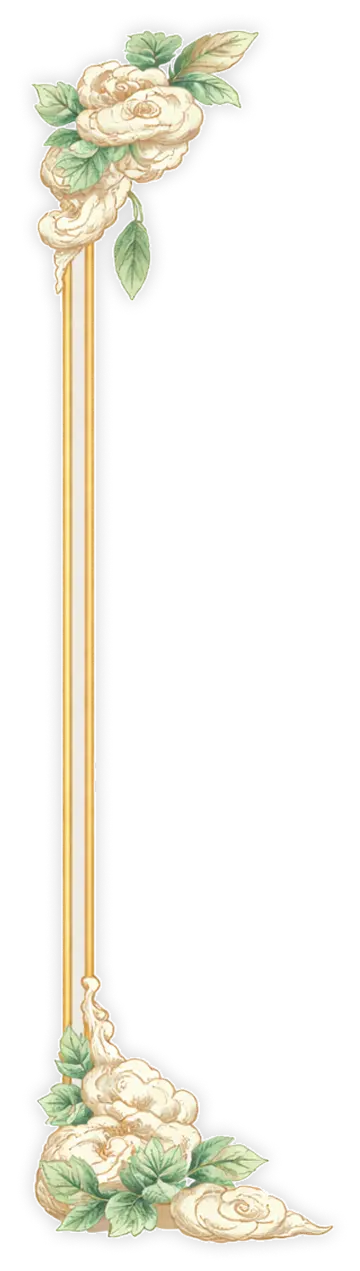
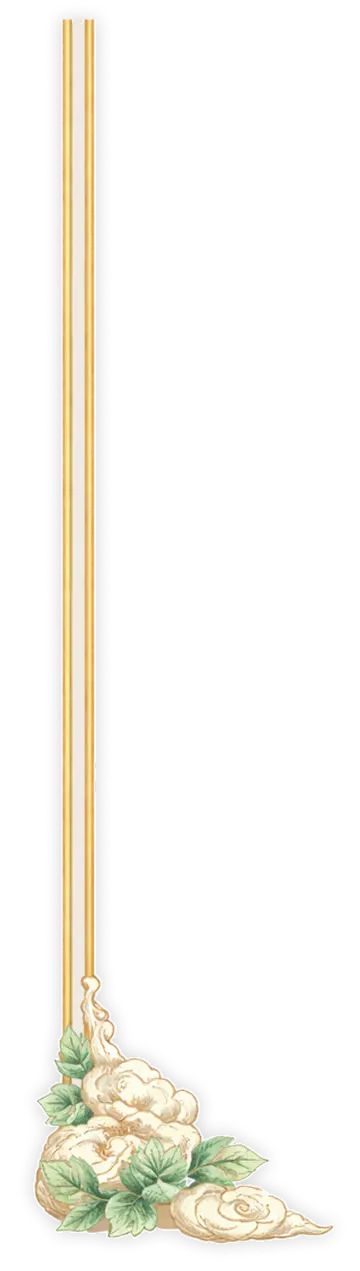
Added melbird and cammy

Changed region(s): [[0.0917, 0.0, 0.7028, 0.2455]]

diff --git a/src/sections/Section1.jsx b/src/sections/Section1.jsx
@@ -9,14 +9,29 @@ import TasselJade from "../assets/section-1/tassel-jade.webp";
 import TasselTinghun from "../assets/section-1/tassel-tinghun.webp";
 
 import BackgroundBuildings from "../assets/section-1/background-buildings.webp";
+import Cammy from "../assets/section-1/cammy.webp";
+import Melbird from "../assets/section-1/melbird.webp";
+import RockPlatform from "../assets/section-1/rock-platform.webp";
+
 
 export function Section1() {
   return (
-    <section className="relative w-full min-h-228 overflow-visible section-1-bg">
-      {/* --- FRAME --- */}
-      <img src={FrameT} className="absolute" style={{ left: '13%', top: '0%',  width: '100%' }} />
-      <img src={FrameL} className="absolute" style={{ left: '-10%', top: '3%',  width: '50%' }} />
-      <img src={FrameR} className="absolute" style={{ right: '-12.1%', top: '3%',  width: '50%' }} />
+    <section className="relative w-full min-h-208 overflow-visible section-1-bg">
+      {/* --- MELBIRD & CAMMY --- */}
+      <div className="w-full h-100 absolute bottom-0">
+        <div className="relative size-full">
+          <img src={BackgroundBuildings} className="absolute bottom-5" />
+          <img src={RockPlatform} className="absolute -bottom-8 " />
+          <img src={Melbird} className="absolute left-13 -bottom-3 w-50 " />
+          <img src={Cammy} className="absolute right-19 -bottom-1 w-25" />
+        </div>
+      </div>
+
+
+      {/* --- GOLD FRAME --- */}
+      <img src={FrameT} className="absolute" />
+      <img src={FrameL} className="absolute -left-11 top-20 w-55"  />
+      <img src={FrameR} className="absolute -right-13 top-23 w-54" />
 
       {/* --- TOP LEFT GRAPHICS --- */}
       <div className="relative left-0 -top-20">
@@ -26,20 +41,20 @@ export function Section1() {
 
       {/* --- TOP RIGHT GRAPHICS --- */}
       <div className="relative right-0 -top-15">
-        <img src={TasselJade} className="absolute right-13 top-46 w-13" />
-        <img src={TasselTinghun} className="absolute right-2 top-67 w-18" />
-        <img src={BorderWhiteFlowerR} className="absolute -right-21 w-75" />
+        <img src={TasselJade} className="absolute right-11 top-46 w-13" />
+        <img src={TasselTinghun} className="absolute right-0 top-67 w-18" />
+        <img src={BorderWhiteFlowerR} className="absolute -right-23 w-75" />
       </div>
 
 
       {/* --- TEXT --- */}
-      <h3 className="w-64 text-center top-34 left-1/2 -translate-x-1/2 font-caudex absolute text-xs font-bold 
+      <h3 className="w-64 text-center top-42 left-1/2 -translate-x-1/2 font-caudex absolute text-xs font-bold 
         bg-linear-to-t from-[#E1BF6A] to-[#C28C2A] bg-clip-text text-transparent drop-shadow-sm">
         YOU ARE CORDIALLY INVITED TO 
         CELEBRATE THE TINGHUN OF
       </h3>
 
-      <div className="text-center top-50 left-1/2 -translate-x-1/2 font-corinthia absolute font-bold overflow-visible p-1.5
+      <div className="text-center top-56 left-1/2 -translate-x-1/2 font-corinthia absolute font-bold overflow-visible p-1.5
         bg-linear-to-t from-[#E1BF6A] to-[#C28C2A] bg-clip-text text-transparent drop-shadow-sm">
         <h1 className="text-7xl">Melvin</h1>
         <h1 className="text-5xl -mt-4">&</h1>
@@ -47,8 +62,7 @@ export function Section1() {
       </div>
 
 
-      {/* --- MELBIRD & CAMMY --- */}
-      <img src={BackgroundBuildings} className="absolute" style={{ left: '0%', bottom: '0%',  width: '100%' }} />
+      
     </section>
   )
 }

diff --git a/src/index.css b/src/index.css
@@ -19,5 +19,5 @@ html, body, #root {
 }
 
 .section-1-bg {
-  background: linear-gradient(to bottom, #F0EFEB 0%, #E9E7E3 39%, #DAE3E8 63%, #C0DBF0 80%);
+  background: linear-gradient(to bottom, #F0EFEB 0%, #E9E7E3 39%, #DAE3E8 51%, #C0DBF0 60%);
 }
